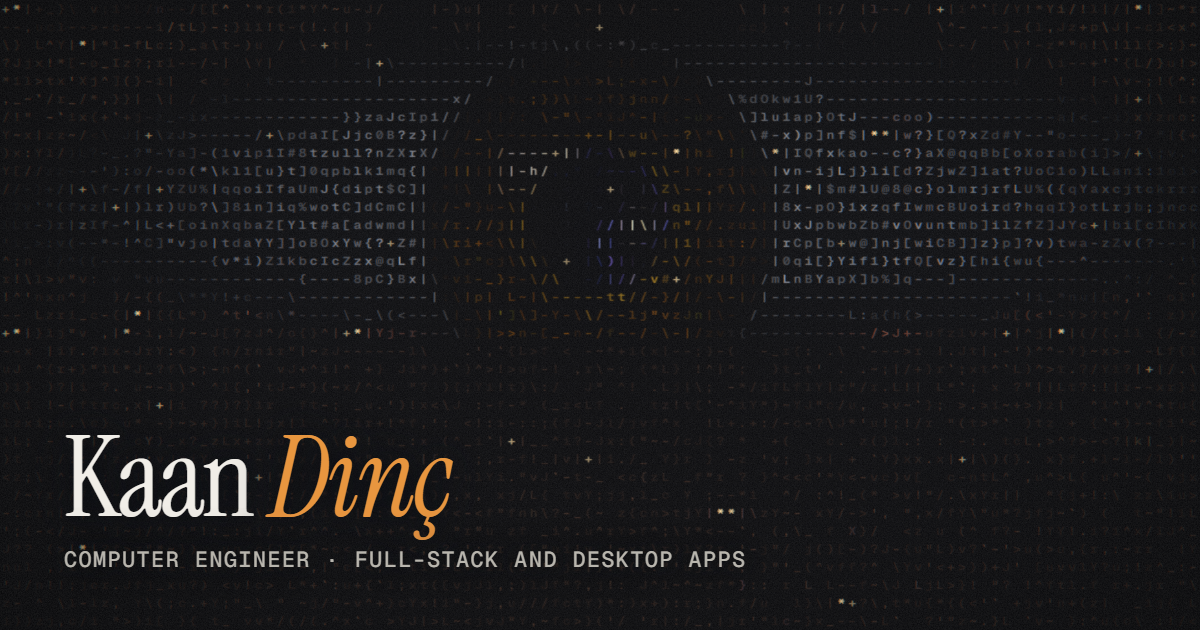
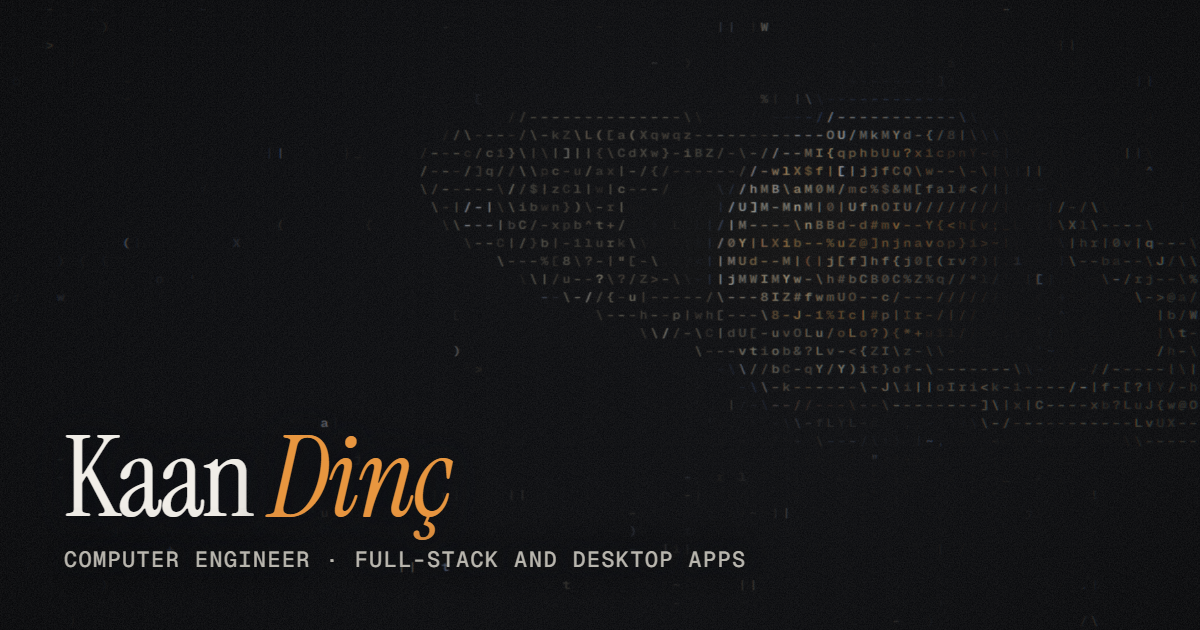
Social image shows the planet
The link-preview image is taken again from the home page so it shows the new ringed planet instead of the eye, and its alt text says so.

diff --git a/posts/rafliyo.html b/posts/rafliyo.html
@@ -15,7 +15,7 @@
 <meta property="og:image" content="https://kaandinc.com/assets/og.png">
 <meta property="og:image:width" content="1200">
 <meta property="og:image:height" content="630">
-<meta property="og:image:alt" content="Kaan Dinç, computer engineer. An eye drawn in ASCII characters, opening onto a galaxy.">
+<meta property="og:image:alt" content="Kaan Dinç, computer engineer. A ringed planet drawn in ASCII characters.">
 <meta name="twitter:card" content="summary_large_image">
 <meta name="twitter:title" content="Raflıyo: a shop app sold by subscription | Kaan Dinç">
 <meta name="twitter:description" content="A Windows desktop app for small shops that sell products: till with a barcode scanner, stock, customer credit, suppliers, expenses, reports, service receipts, quotes and shelf labels, on a PostgreSQL database the installer sets up on the shop's own PC. Sold by subscription, with signed licenses, signed updates, a WhatsApp sender and a sales site with a live demo.">

diff --git a/posts/pathfinding.html b/posts/pathfinding.html
@@ -15,7 +15,7 @@
 <meta property="og:image" content="https://kaandinc.com/assets/og.png">
 <meta property="og:image:width" content="1200">
 <meta property="og:image:height" content="630">
-<meta property="og:image:alt" content="Kaan Dinç, computer engineer. An eye drawn in ASCII characters, opening onto a galaxy.">
+<meta property="og:image:alt" content="Kaan Dinç, computer engineer. A ringed planet drawn in ASCII characters.">
 <meta name="twitter:card" content="summary_large_image">
 <meta name="twitter:title" content="Pathfinding: deciding when to break a wall instead of walking around it | Kaan Dinç">
 <meta name="twitter:description" content="A game AI planner that prices walls in seconds, so units weigh breaking through against walking around, extended to squads limited by how many units fit at a wall, checked against the real simulation on 200 random maps, and shown side by side with a classic AI in a PixiJS demo with an editor and nine maps.">

diff --git a/posts/tessera.html b/posts/tessera.html
@@ -15,7 +15,7 @@
 <meta property="og:image" content="https://kaandinc.com/assets/og.png">
 <meta property="og:image:width" content="1200">
 <meta property="og:image:height" content="630">
-<meta property="og:image:alt" content="Kaan Dinç, computer engineer. An eye drawn in ASCII characters, opening onto a galaxy.">
+<meta property="og:image:alt" content="Kaan Dinç, computer engineer. A ringed planet drawn in ASCII characters.">
 <meta name="twitter:card" content="summary_large_image">
 <meta name="twitter:title" content="Tessera: a free file converter in the Windows right-click menu | Kaan Dinç">
 <meta name="twitter:description" content="A free, open-source Windows converter in Rust and Tauri 2 that lives in the Explorer right-click menu. Images, audio, video and PDF, size targets like &quot;under 10 MB&quot;, presets, a command line, and one exe that is its own installer. No account, no ads, no telemetry, no admin rights.">

diff --git a/posts/volume-lock.html b/posts/volume-lock.html
@@ -15,7 +15,7 @@
 <meta property="og:image" content="https://kaandinc.com/assets/og.png">
 <meta property="og:image:width" content="1200">
 <meta property="og:image:height" content="630">
-<meta property="og:image:alt" content="Kaan Dinç, computer engineer. An eye drawn in ASCII characters, opening onto a galaxy.">
+<meta property="og:image:alt" content="Kaan Dinç, computer engineer. A ringed planet drawn in ASCII characters.">
 <meta name="twitter:card" content="summary_large_image">
 <meta name="twitter:title" content="Volume Lock: per-site volume, boost and equalizer for Chrome | Kaan Dinç">
 <meta name="twitter:description" content="A Manifest V3 Chrome extension in TypeScript that saves a volume level per site, applies it before media starts, boosts up to 600% behind a limiter, adds an equalizer and night mode, and shows the tab's real audio on a knob ring. 81 browser tests, no network requests.">

diff --git a/posts/impulse-physics-engine.html b/posts/impulse-physics-engine.html
@@ -15,7 +15,7 @@
 <meta property="og:image" content="https://kaandinc.com/assets/og.png">
 <meta property="og:image:width" content="1200">
 <meta property="og:image:height" content="630">
-<meta property="og:image:alt" content="Kaan Dinç, computer engineer. An eye drawn in ASCII characters, opening onto a galaxy.">
+<meta property="og:image:alt" content="Kaan Dinç, computer engineer. A ringed planet drawn in ASCII characters.">
 <meta name="twitter:card" content="summary_large_image">
 <meta name="twitter:title" content="Impulse: a 2D physics engine from scratch in TypeScript | Kaan Dinç">
 <meta name="twitter:description" content="A 2D rigid body physics engine with SAT collision, a soft-step solver with substeps, sleeping, continuous collision, scene queries and joints, written without physics libraries and checked against analytic results, independent oracles and deliberate sabotage.">

diff --git a/posts/sentinel-packet-analyzer.html b/posts/sentinel-packet-analyzer.html
@@ -15,7 +15,7 @@
 <meta property="og:image" content="https://kaandinc.com/assets/og.png">
 <meta property="og:image:width" content="1200">
 <meta property="og:image:height" content="630">
-<meta property="og:image:alt" content="Kaan Dinç, computer engineer. An eye drawn in ASCII characters, opening onto a galaxy.">
+<meta property="og:image:alt" content="Kaan Dinç, computer engineer. A ringed planet drawn in ASCII characters.">
 <meta name="twitter:card" content="summary_large_image">
 <meta name="twitter:title" content="Sentinel: a packet analyzer and IDS from scratch in Python | Kaan Dinç">
 <meta name="twitter:description" content="Hand-written protocol parsers with no runtime dependencies, pcap and pcapng reading, TCP stream reassembly, a filter language, six detectors and JA3 fingerprints, checked against Wireshark's tshark and run unchanged on 2.7 million packets of real traffic.">

diff --git a/posts/number-guessing.html b/posts/number-guessing.html
@@ -15,7 +15,7 @@
 <meta property="og:image" content="https://kaandinc.com/assets/og.png">
 <meta property="og:image:width" content="1200">
 <meta property="og:image:height" content="630">
-<meta property="og:image:alt" content="Kaan Dinç, computer engineer. An eye drawn in ASCII characters, opening onto a galaxy.">
+<meta property="og:image:alt" content="Kaan Dinç, computer engineer. A ringed planet drawn in ASCII characters.">
 <meta name="twitter:card" content="summary_large_image">
 <meta name="twitter:title" content="Number Guess Battle: real-time multiplayer over a stateless relay | Kaan Dinç">
 <meta name="twitter:description" content="A two-player guessing game where an 80-line WebSocket relay only forwards messages. All game state lives in the two browsers, the secret number never crosses the network before the game ends, and a refreshed tab rejoins its room within 30 seconds.">

diff --git a/posts/retail-desktop-apps.html b/posts/retail-desktop-apps.html
@@ -15,7 +15,7 @@
 <meta property="og:image" content="https://kaandinc.com/assets/og.png">
 <meta property="og:image:width" content="1200">
 <meta property="og:image:height" content="630">
-<meta property="og:image:alt" content="Kaan Dinç, computer engineer. An eye drawn in ASCII characters, opening onto a galaxy.">
+<meta property="og:image:alt" content="Kaan Dinç, computer engineer. A ringed planet drawn in ASCII characters.">
 <meta name="twitter:card" content="summary_large_image">
 <meta name="twitter:title" content="Offline desktop apps for a retail shop: ledger and receipts | Kaan Dinç">
 <meta name="twitter:description" content="Two Python desktop apps for one shop: a layered ledger for stock, sales, credit accounts and statements with a backup on every start, and a receipt app that renders PDFs that grow to fit, with Turkish casing, amounts in words and Decimal arithmetic.">

diff --git a/posts/country-quiz.html b/posts/country-quiz.html
@@ -15,7 +15,7 @@
 <meta property="og:image" content="https://kaandinc.com/assets/og.png">
 <meta property="og:image:width" content="1200">
 <meta property="og:image:height" content="630">
-<meta property="og:image:alt" content="Kaan Dinç, computer engineer. An eye drawn in ASCII characters, opening onto a galaxy.">
+<meta property="og:image:alt" content="Kaan Dinç, computer engineer. A ringed planet drawn in ASCII characters.">
 <meta name="twitter:card" content="summary_large_image">
 <meta name="twitter:title" content="Country Quiz: a world map game with distance feedback | Kaan Dinç">
 <meta name="twitter:description" content="A static world map quiz in Turkish and English with six modes, distance and direction feedback on every wrong pick, borders for 158 countries worked out from shared map edges, and a date-seeded daily challenge. The game rules are a unit-tested reducer.">

diff --git a/posts/ridecast.html b/posts/ridecast.html
@@ -15,7 +15,7 @@
 <meta property="og:image" content="https://kaandinc.com/assets/og.png">
 <meta property="og:image:width" content="1200">
 <meta property="og:image:height" content="630">
-<meta property="og:image:alt" content="Kaan Dinç, computer engineer. An eye drawn in ASCII characters, opening onto a galaxy.">
+<meta property="og:image:alt" content="Kaan Dinç, computer engineer. A ringed planet drawn in ASCII characters.">
 <meta name="twitter:card" content="summary_large_image">
 <meta name="twitter:title" content="Ridecast: route weather for the time you arrive | Kaan Dinç">
 <meta name="twitter:description" content="A web app for motorcycle riders that builds an arrival timeline along a route, matches every point to the forecast for that time, and turns it into decisions: the safer road, the best departure, what to wear, and a live ride screen that re-plans from GPS.">

diff --git a/posts/discord-bots.html b/posts/discord-bots.html
@@ -15,7 +15,7 @@
 <meta property="og:image" content="https://kaandinc.com/assets/og.png">
 <meta property="og:image:width" content="1200">
 <meta property="og:image:height" content="630">
-<meta property="og:image:alt" content="Kaan Dinç, computer engineer. An eye drawn in ASCII characters, opening onto a galaxy.">
+<meta property="og:image:alt" content="Kaan Dinç, computer engineer. A ringed planet drawn in ASCII characters.">
 <meta name="twitter:card" content="summary_large_image">
 <meta name="twitter:title" content="rejs: a Discord moderation bot with a 7-day undo | Kaan Dinç">
 <meta name="twitter:description" content="A Node.js Discord bot that combines moderation, anti-raid and anti-nuke protection, tickets and a FiveM server monitor in one slash-command bot. Every staff action is journaled through SQLite triggers and can be undone for 7 days.">

diff --git a/posts/ecommerce-admin-panel.html b/posts/ecommerce-admin-panel.html
@@ -15,7 +15,7 @@
 <meta property="og:image" content="https://kaandinc.com/assets/og.png">
 <meta property="og:image:width" content="1200">
 <meta property="og:image:height" content="630">
-<meta property="og:image:alt" content="Kaan Dinç, computer engineer. An eye drawn in ASCII characters, opening onto a galaxy.">
+<meta property="og:image:alt" content="Kaan Dinç, computer engineer. A ringed planet drawn in ASCII characters.">
 <meta name="twitter:card" content="summary_large_image">
 <meta name="twitter:title" content="Product catalog and admin panel for an electrical shop | Kaan Dinç">
 <meta name="twitter:description" content="A live price-and-stock catalog for an electrical and security-equipment shop, where every product opens a pre-written WhatsApp message, with a custom admin panel for the owner, deployed on Cloudflare Workers with D1 and R2.">
